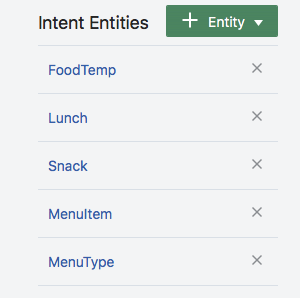
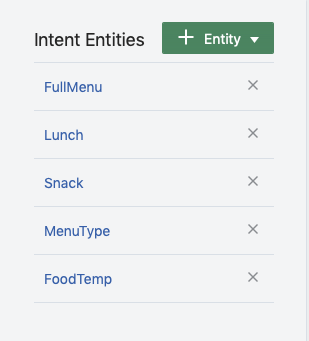
Update Labs

diff --git a/200-IB.md b/200-IB.md
@@ -130,7 +130,11 @@ up of both sub lists.
 
 <img src="img/lab2-18.png" width="50%"/>
 
-19. Scroll down the list and select the various custom Entity Definitions (with Orange Box) to add them to the current intent (MenuItem, FoodTemp, Lunch, Snack, MenuType)  
+19. Scroll down the list and select the listed Entity Definitions (with Orange Box) to add them to the current intent
+  - FoodTemp 
+  - Lunch
+  - Snack 
+  - MenuType  
 
 Associating the Entity with the Intent gives a meaningful domain to the possible values and hence makes it easier for the  NLP to evaluate the appropriate information.
 

diff --git a/400-IB.md b/400-IB.md
@@ -431,4 +431,4 @@ In this Lab you:
 
 
 # Lab Exercise: #
-<< [Back to Intelligent Bot Test Drive Home](README.md)
+<< [Back to Digital Assistant Test Drive Home](README-IBCS.md)
